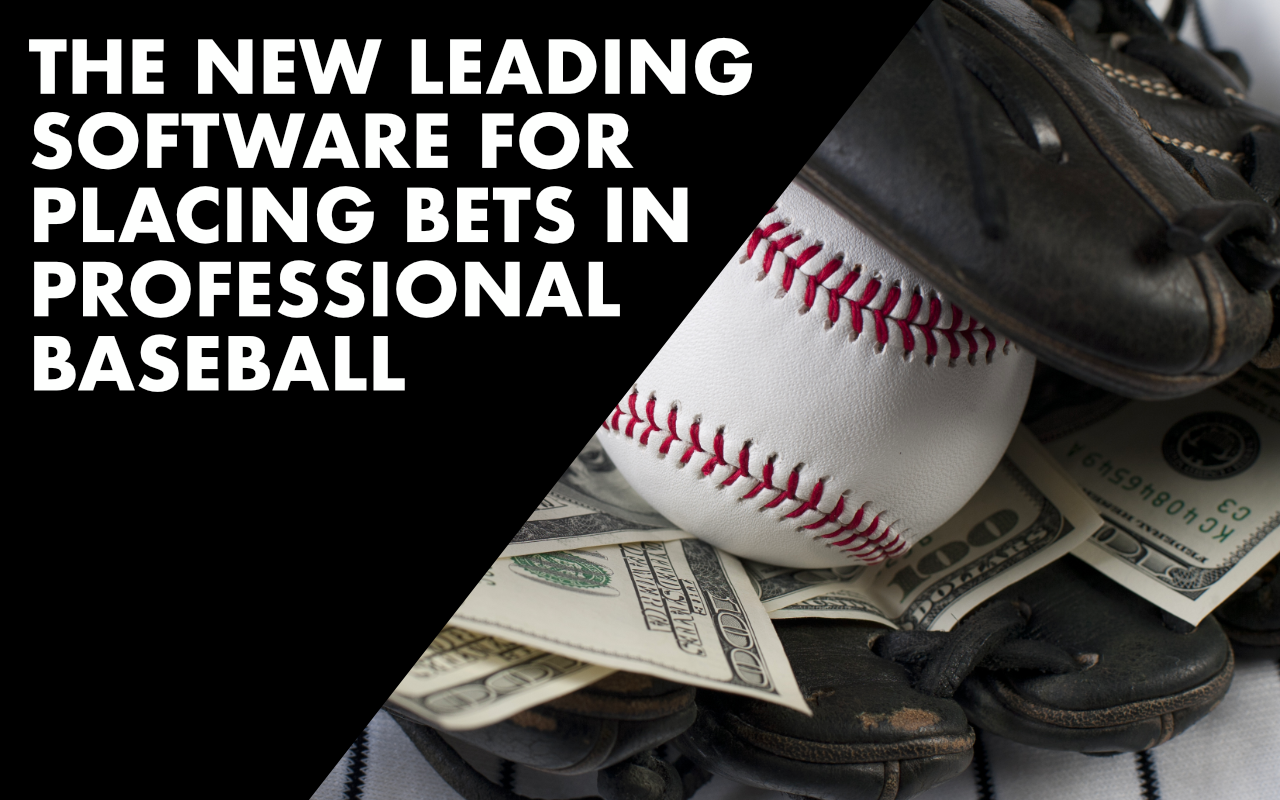
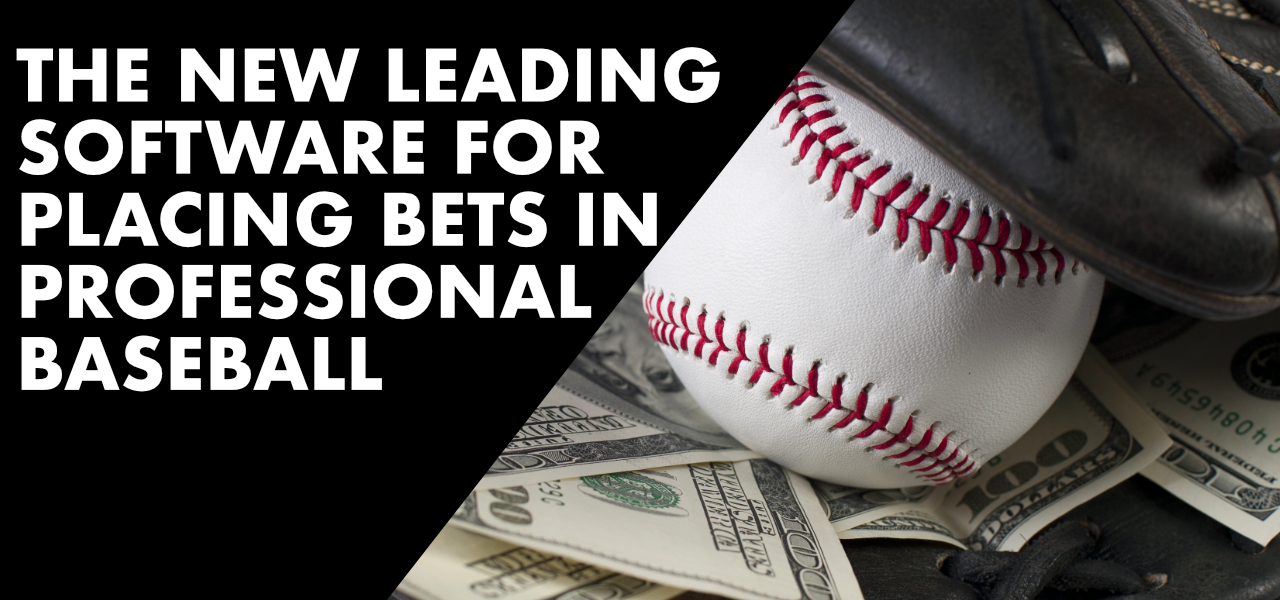
Shortened height in baseball image on homepage

diff --git a/client/src/components/app.jsx b/client/src/components/app.jsx
@@ -15,7 +15,7 @@ class Navigation extends Component {
     render() {
         return (
             <Router>
-                <Fragment>
+                <Fragment className="container-fluid">
                     <nav className="navbar transparent">
                         <img src="https://www.logolynx.com/images/logolynx/f0/f009386dc544d1455db05db19d454629.png " width="100px" alt=""/>
                         <Link className="btn btn-outline-light border-0 rounded-0" to="/">Home</Link>

diff --git a/client/styles.css b/client/styles.css
@@ -1,6 +1,6 @@
 body {
   text-align: center;
-  padding: 2em;
+  padding: 3em;
   background: black; /* For browsers that do not support gradients */
   background: linear-gradient(#159915, black);
   font-family: 'Nunito', sans-serif;
@@ -88,9 +88,6 @@ body {
     position:fixed;  
     z-index:1; /*Add this*/
     width:100%;
-    height:50px;
-    text-align:center;
-    vertical-align:middle;
-    line-height:50px;
+    height:70px;
     top:0px;
   }
